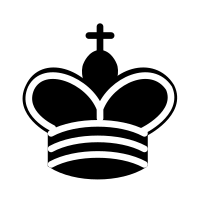
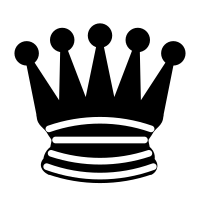
Remade the layout of the chessboard splited the dead pieces array and fixed the bug with queen and king

Changed region(s): [[0.06, 0.09, 0.93, 0.93]]

diff --git a/Group9_SEP3_Chess/Data/MatchService.cs b/Group9_SEP3_Chess/Data/MatchService.cs
@@ -69,10 +69,34 @@ namespace Group9_SEP3_Chess.Data
             return null;
         }
 
-        public IList<ChessPiece> getRemovedChessPieces()
+        public IList<ChessPiece> getWhiteRemovedChessPieces()
         {
-            List<ChessPiece> chessPieces = new List<ChessPiece>(removedChessPieces);
-            return chessPieces;
+            List<ChessPiece> whiteChessPieces = new List<ChessPiece>();
+
+            foreach (ChessPiece chessPiece in removedChessPieces)
+            {
+                if (chessPiece.Color.Equals("White"))
+                {
+                    whiteChessPieces.Add(chessPiece);
+                }   
+            }
+
+            return whiteChessPieces;
+        }
+        
+        public IList<ChessPiece> getBlackRemovedChessPieces()
+        {
+            List<ChessPiece> blackChessPieces = new List<ChessPiece>();
+
+            foreach (ChessPiece chessPiece in removedChessPieces)
+            {
+                if (chessPiece.Color.Equals("Black"))
+                {
+                    blackChessPieces.Add(chessPiece);
+                }   
+            }
+
+            return blackChessPieces;
         }
 
         public string getMatchScores(bool Black)

diff --git a/Group9_SEP3_Chess/Data/IMatchService.cs b/Group9_SEP3_Chess/Data/IMatchService.cs
@@ -13,8 +13,8 @@ namespace Group9_SEP3_Chess.Data
 
         Task<ChessPiece[,]> LoadChessPieces(Message message,
             CancellationToken cancellationToken = default(CancellationToken));
-
-        IList<ChessPiece> getRemovedChessPieces();
+        public IList<ChessPiece> getBlackRemovedChessPieces();
+        public IList<ChessPiece> getWhiteRemovedChessPieces();
         String getMatchScores(bool Black);
     }
 }
